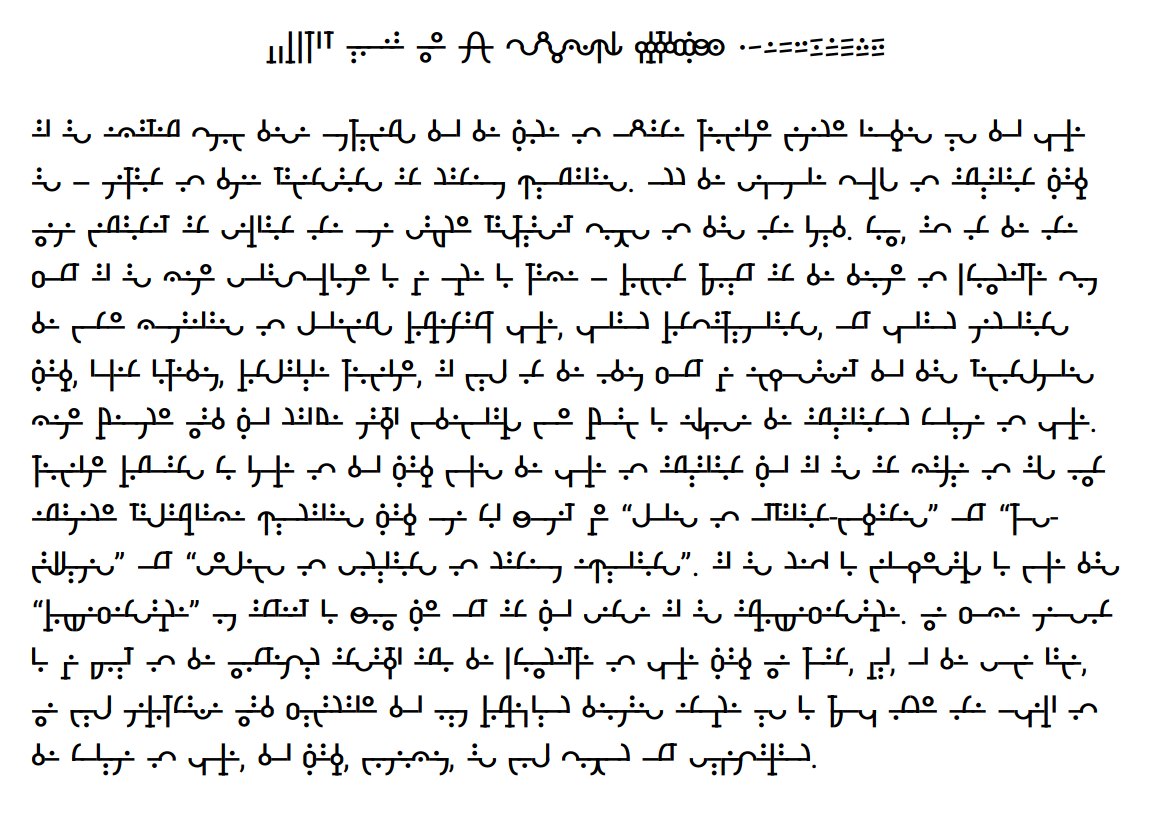
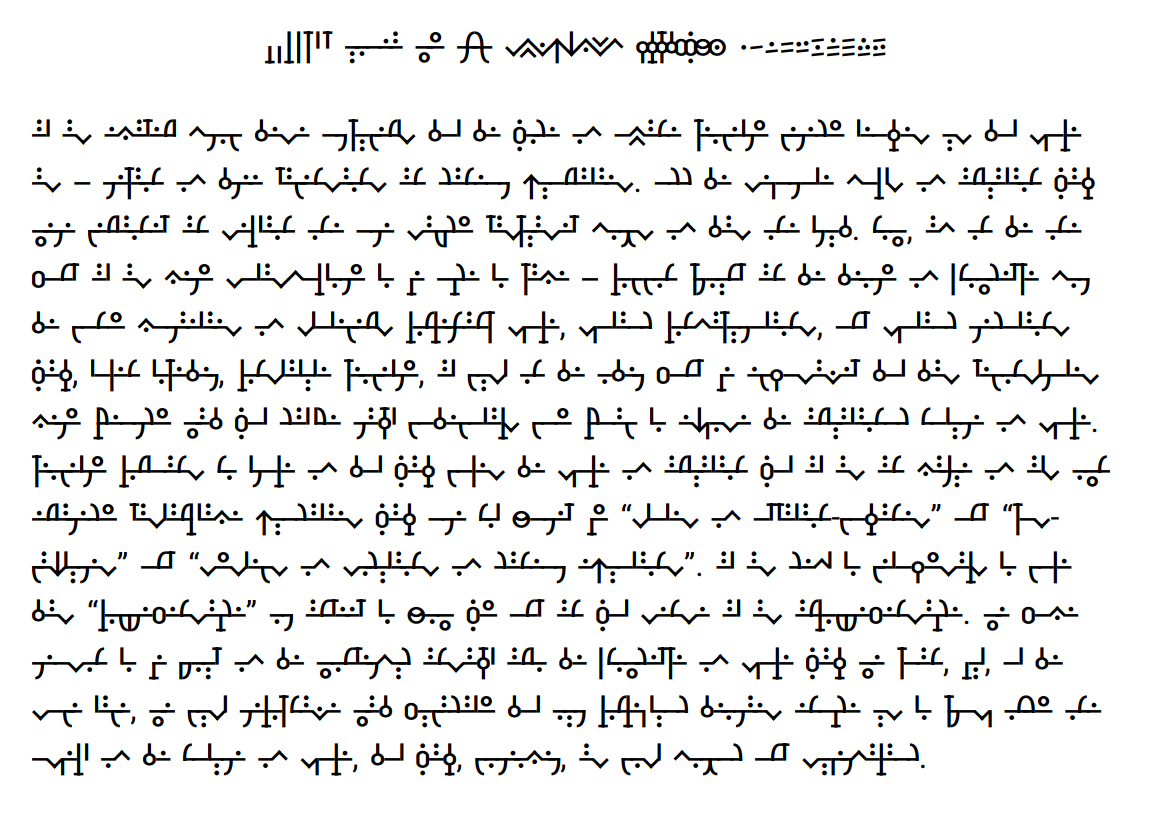
Replace arcs with chevrons

diff --git a/specimen/specimen.html b/specimen/specimen.html
@@ -54,7 +54,7 @@
   </head>
   <body>
     <section class="affine" style="line-height: 1;text-align: center;">
-      <p>bpckgtd uoaei wy rnlm fsffssvzqx phchghthhwhshj 0123456789</p>
+      <p>bpckgtd uoaei wy rnlm sffzqxvssf phchghthhwhshj 0123456789</p>
     </section>
 
     <div class="screen-two-up">
